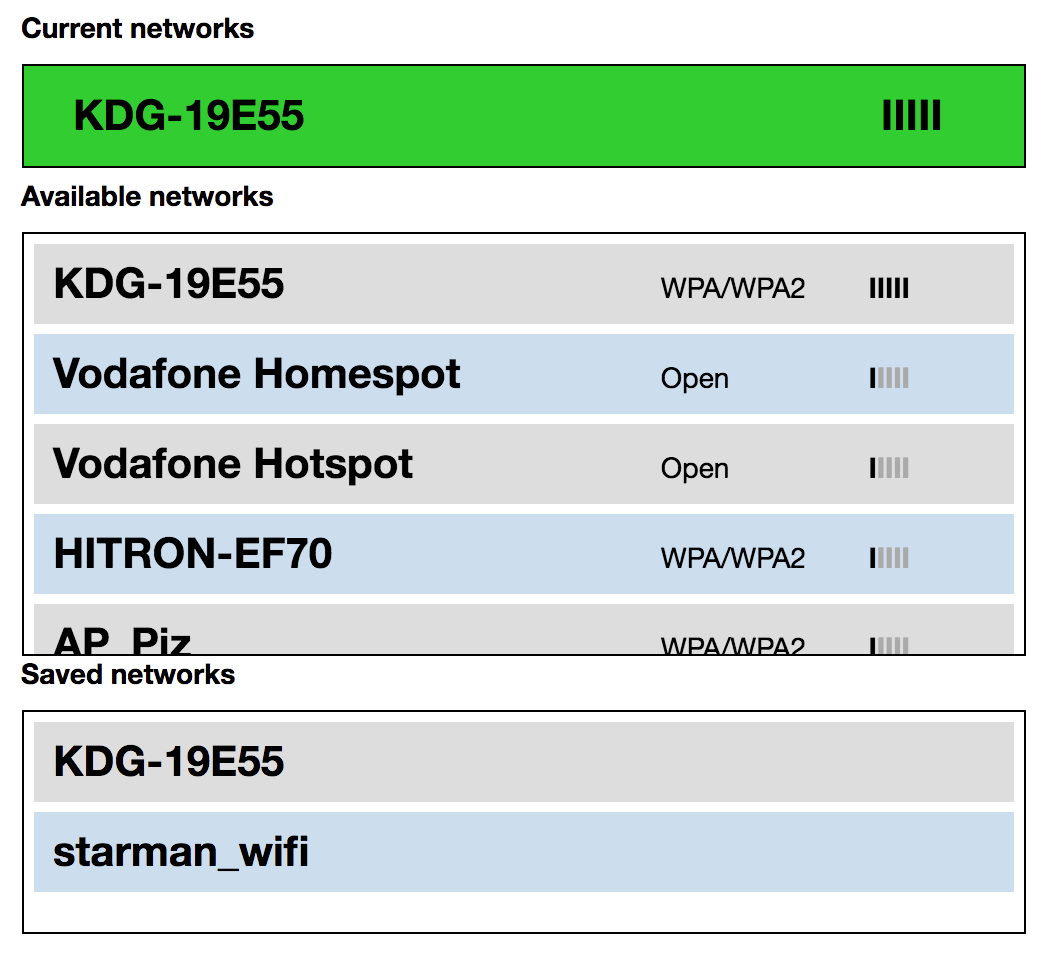
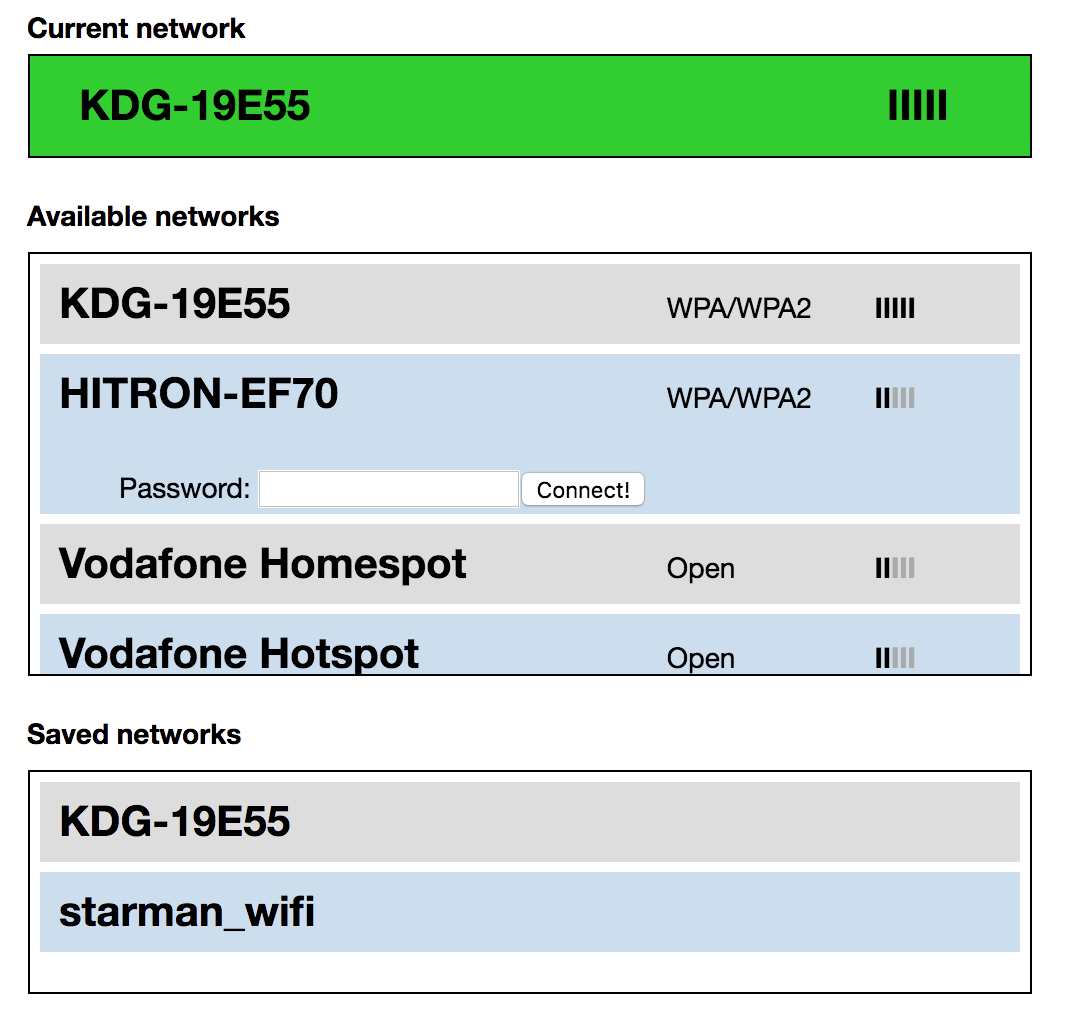
Clean up my mess.

Changed region(s): [[0.0, 0.0, 0.9752, 0.9688]]

diff --git a/html/main.css b/html/main.css
@@ -24,10 +24,10 @@ body {
 	width: 490px;
 	height: 40px;
 	border: 1px solid black;
-	margin-top: 10px;
+	margin-top: 5px;
+	margin-bottom: 20px;
 	padding: 5px;
 	background-color: #dddddd;
-	margin-bottom: 5px;
 	line-height: 45px;
 	vertical-align: middle;
 }
@@ -63,6 +63,7 @@ body {
 	height: 200px;
 	border: 1px solid black;
 	margin-top: 10px;
+	margin-bottom: 20px;
 	padding: 5px;
 	overflow: scroll;
 }

diff --git a/html/index.html b/html/index.html
@@ -79,7 +79,7 @@ window.onload = async function() {
 </head>
 <body>
 <div id="content">
-	<span style="font-weight: bold;">Current networks</span>
+	<span style="font-weight: bold;">Current network</span>
 	<div id="current_network"></div>
 	<span style="font-weight: bold;">Available networks</span>
 	<div id="networks">
